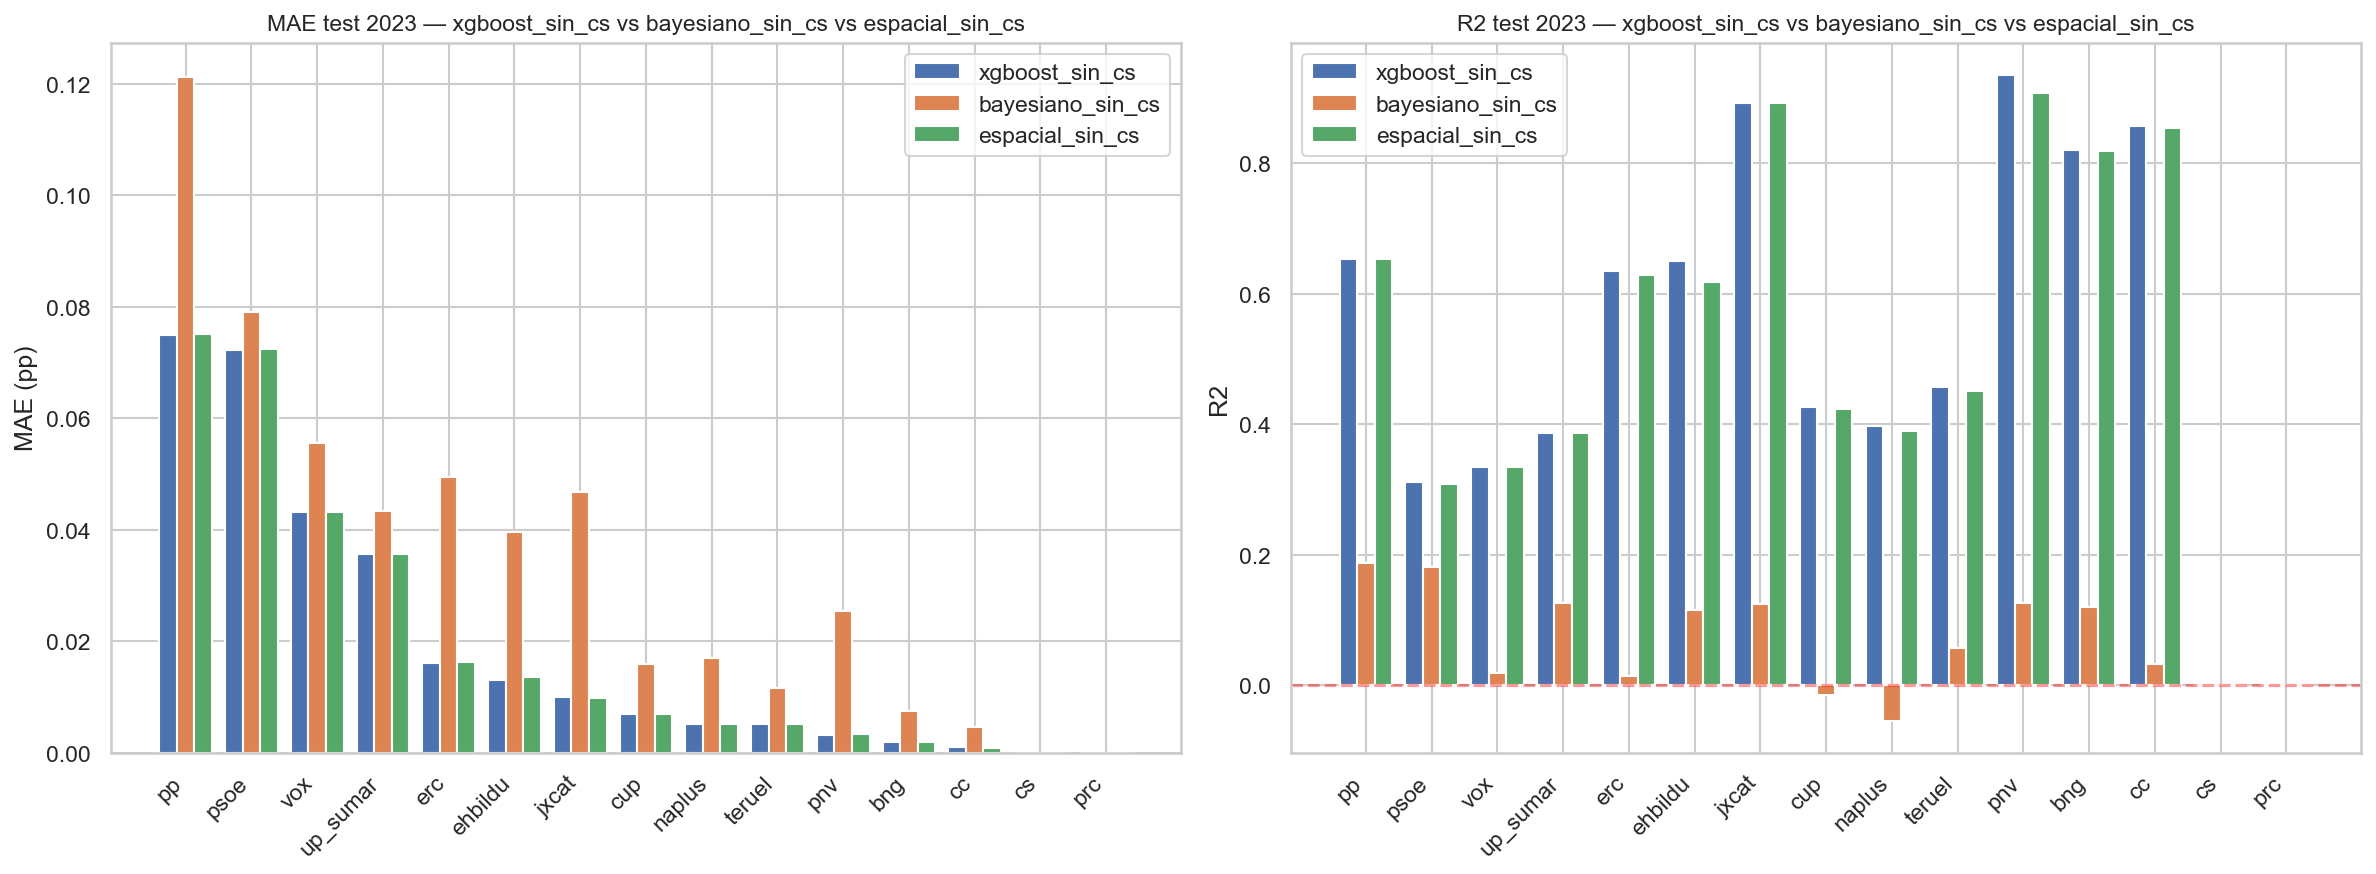
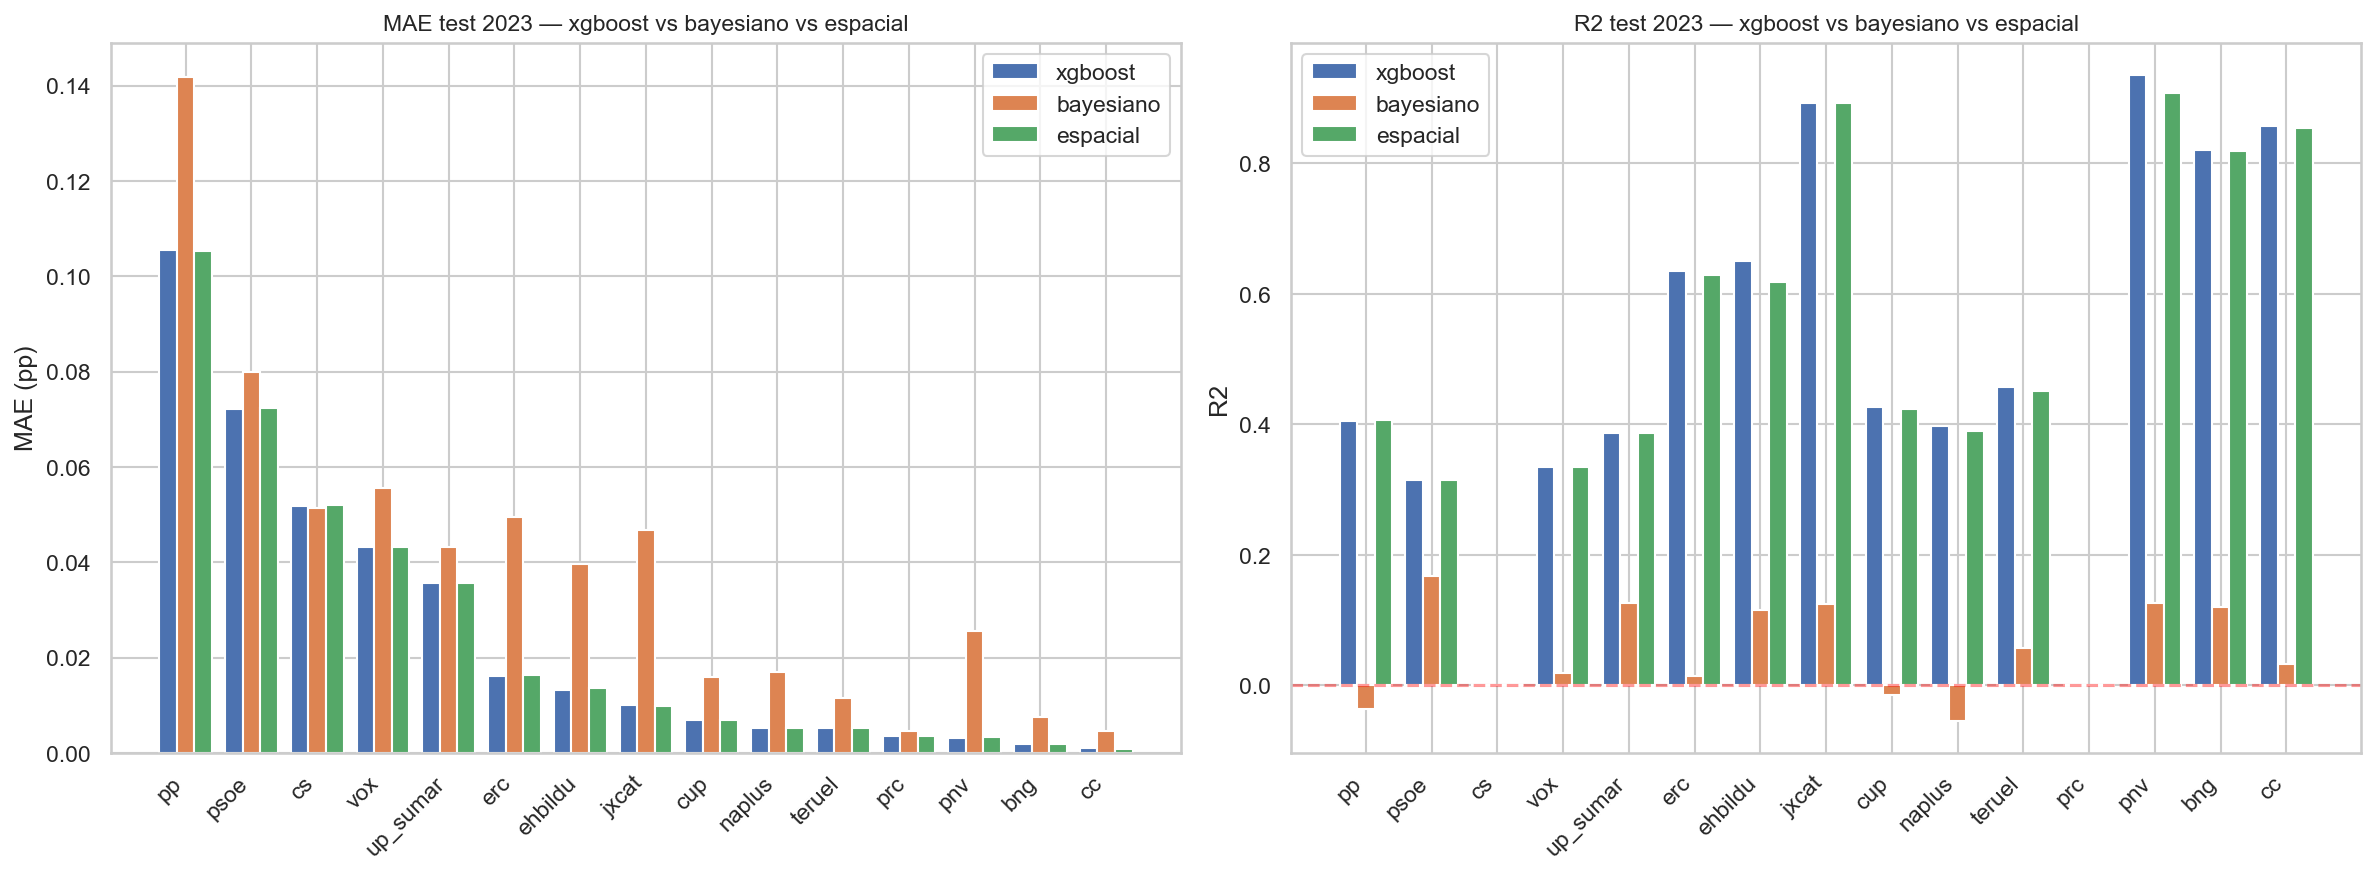
solución de errores en código en carpeta análisis

diff --git a/analisis/bloques.py b/analisis/bloques.py
@@ -46,27 +46,23 @@ FEAT_TOT_CAND = [
 ]
 
 
-def _get_X_panel(df: pd.DataFrame, anio: int) -> pd.DataFrame:
+def _get_X_panel(df, anio):
     cols = [f'{f}_{anio}' for f in FEAT_PANEL_BASE if f'{f}_{anio}' in df.columns]
     rename = {f'{f}_{anio}': f for f in FEAT_PANEL_BASE if f'{f}_{anio}' in cols}
     return df[FEAT_FIXED + cols].copy().rename(columns=rename)
 
 
-def _get_y_bloque_panel(df: pd.DataFrame, anio: int, partidos: list) -> pd.Series:
+def _get_y_bloque_panel(df, anio, partidos):
     cols = [f'pct_{p}_{anio}' for p in partidos if f'pct_{p}_{anio}' in df.columns]
     return df[cols].fillna(0).sum(axis=1)
 
 
-def _suma(df: pd.DataFrame, cols: list) -> pd.Series:
+def _suma(df, cols):
     return df[[c for c in cols if c in df.columns]].fillna(0).sum(axis=1)
 
 
-def walk_forward_bloques(panel: pd.DataFrame) -> pd.DataFrame:
-    """
-    Walk-forward sobre el panel de 1.207 municipios (sin imputación KNN).
-    Tres rondas: test 2016, 2019 y 2023.
-    Devuelve DataFrame con R²/MAE por bloque y año de test.
-    """
+def walk_forward_bloques(panel):
+    """Walk-forward sobre el panel de 1207 municipios: test 2016, 2019 y 2023."""
     res_panel = {b: {} for b in BLOQUES}
 
     for bloque in BLOQUES:
@@ -100,7 +96,7 @@ def walk_forward_bloques(panel: pd.DataFrame) -> pd.DataFrame:
     print(f'\n{"Bloque":<18}', end='')
     for r in RONDAS_WF:
         print(f'  R2_{r["test"]}  MAE_{r["test"]}', end='')
-    print('\n' + '-' * 72)
+    print()
     for b in BLOQUES:
         print(f'{b:<18}', end='')
         for r in RONDAS_WF:
@@ -121,15 +117,8 @@ def walk_forward_bloques(panel: pd.DataFrame) -> pd.DataFrame:
     return pd.DataFrame(rows)
 
 
-def muestra_total_bloques(
-    df_2019: pd.DataFrame,
-    df_2023: pd.DataFrame,
-) -> tuple:
-    """
-    Entrena un modelo XGBoost por bloque sobre df_2019 y evalúa en df_2023.
-    Añade columnas pct_izquierda/pct_derecha/pct_nacionalistas a ambos DataFrames.
-    Devuelve (res_total, models_bloq, feat_tot).
-    """
+def muestra_total_bloques(df_2019, df_2023):
+    """Entrena XGBoost por bloque en 2019 y evalúa en 2023; devuelve (res_total, models_bloq, feat_tot)."""
     for df_ in [df_2019, df_2023]:
         df_['pct_izquierda']     = _suma(df_, IZQ)
         df_['pct_derecha']       = _suma(df_, DER)
@@ -169,18 +158,8 @@ def muestra_total_bloques(
     return res_total, models_bloq, feat_tot
 
 
-def hallazgo_central(
-    df_2019: pd.DataFrame,
-    df_2023: pd.DataFrame,
-    res_total: dict,
-    feat_tot: list,
-    guardar: bool = True,
-) -> tuple:
-    """
-    Compara R² de partidos individuales vs bloques (test 2023, muestra total).
-    Genera gráfico de barras comparativo.
-    Devuelve (df_comparativa, r2_part) donde r2_part es {partido: r2_total}.
-    """
+def hallazgo_central(df_2019, df_2023, res_total, feat_tot, guardar=True):
+    """Compara R² de partidos individuales vs bloques y genera gráfico."""
     PARTIDOS_CMP = ['pp', 'vox', 'cs', 'psoe', 'up_sumar']
     r2_part = {}
     for p in PARTIDOS_CMP:
@@ -207,9 +186,7 @@ def hallazgo_central(
     ]
 
     print('HALLAZGO CENTRAL: partido individual vs bloque total (test 2023, muestra total)')
-    print('=' * 65)
     print(f'  {"Target":<22}  {"R2":>8}  Tipo')
-    print(f'  {"-"*22}  {"-"*8}  {"-"*18}')
     for nombre, r2, tipo in comparativa:
         marca = '***' if 'BLOQUE' in tipo else '   '
         print(f'{marca}  {nombre:<22}  {r2:>8.3f}  {tipo}')

diff --git a/analisis/descomposicion_r2.py b/analisis/descomposicion_r2.py
@@ -17,25 +17,8 @@ NAC = ['pct_pnv', 'pct_jxcat', 'pct_cc', 'pct_prc', 'pct_teruel',
 BLOQUES_COLS = {'derecha': DER, 'izquierda': IZQ, 'nacionalistas': NAC}
 
 
-def calcular_descomposicion(
-    df_2019: pd.DataFrame,
-    df_2023: pd.DataFrame,
-    res_total: dict,
-    feat_tot: list,
-    r2_part: dict,
-) -> tuple:
-    """
-    Calcula R²_eco (sin provincia_enc) y R²_total (con provincia_enc) para
-    los 5 partidos estatales y los 3 bloques ideológicos.
-
-    Parámetros
-    ----------
-    res_total : dict devuelto por muestra_total_bloques — R² total por bloque
-    feat_tot  : lista de features con provincia_enc (devuelta por muestra_total_bloques)
-    r2_part   : dict devuelto por hallazgo_central — R² total por partido
-
-    Devuelve (r2_eco_part, r2_eco_bloque).
-    """
+def calcular_descomposicion(df_2019, df_2023, res_total, feat_tot, r2_part):
+    """R² económico puro vs económico+provincial para partidos y bloques."""
     feat_eco = [c for c in feat_tot if c != 'provincia_enc']
 
     r2_eco_part = {}
@@ -52,7 +35,6 @@ def calcular_descomposicion(
 
     print('PARTIDOS — R² descomposición (train 2019 → test 2023, n≈7.880)')
     print(f'{"Partido":<14} {"R²_eco":>8} {"R²_total":>10} {"Δterritorial":>14} {"Residual":>10}')
-    print('-' * 60)
     for p in ['pp', 'vox', 'cs', 'psoe', 'up_sumar']:
         r_eco = r2_eco_part.get(p, float('nan'))
         r_tot = r2_part.get(p, float('nan'))
@@ -75,7 +57,6 @@ def calcular_descomposicion(
     print()
     print('BLOQUES — R² descomposición (train 2019 → test 2023, n≈7.880)')
     print(f'{"Bloque":<16} {"R²_eco":>8} {"R²_total":>10} {"Δterritorial":>14} {"Residual":>10}')
-    print('-' * 60)
     for bloque in ['derecha', 'izquierda', 'nacionalistas']:
         r_eco = r2_eco_bloque.get(bloque, float('nan'))
         r_tot = res_total.get(bloque, {}).get('r2', float('nan'))
@@ -97,17 +78,8 @@ def _componentes(r_eco: float, r_tot: float) -> tuple:
     return eco, terr, resid
 
 
-def visualizar_descomposicion(
-    r2_eco_part: dict,
-    r2_part: dict,
-    r2_eco_bloque: dict,
-    res_total: dict,
-    guardar: bool = True,
-) -> None:
-    """
-    Gráfico de barras apiladas: componente económico, territorial y no explicado
-    para partidos individuales y bloques ideológicos.
-    """
+def visualizar_descomposicion(r2_eco_part, r2_part, r2_eco_bloque, res_total, guardar=True):
+    """Barras apiladas: componente económico, territorial y no explicado por partido y bloque."""
     etiquetas_part = ['PP', 'VOX', 'CS', 'PSOE', 'UP/Sumar']
     keys_part      = ['pp', 'vox', 'cs', 'psoe', 'up_sumar']
     etiquetas_blq  = ['Derecha', 'Izquierda', 'Nacionalistas']

diff --git a/analisis/validacion_perfiles.py b/analisis/validacion_perfiles.py
@@ -13,12 +13,8 @@ FEAT_ECO_BASE = [
 ]
 
 
-def correlacion_geografica(panel: pd.DataFrame, guardar: bool = True) -> pd.DataFrame:
-    """
-    Heatmap de correlación entre % de voto por partido en 2019.
-    Muestra si los partidos van a los mismos municipios o no.
-    Devuelve la matriz de correlación.
-    """
+def correlacion_geografica(panel, guardar=True):
+    """Heatmap de correlación entre % de voto por partido en 2019."""
     voto_map = {
         'PP': 'pct_pp_2019', 'VOX': 'pct_vox_2019', 'CS': 'pct_cs_2019',
         'PSOE': 'pct_psoe_2019', 'UP/Sumar': 'pct_up_sumar_2019',
@@ -48,12 +44,8 @@ def correlacion_geografica(panel: pd.DataFrame, guardar: bool = True) -> pd.Data
     return corr_geo
 
 
-def correlacion_transferencias(panel: pd.DataFrame, guardar: bool = True) -> pd.DataFrame:
-    """
-    Correlación entre cambios de voto 2019→2023 por municipio.
-    Confirma la transferencia Cs→PP y el movimiento PSOE↔UP/Sumar.
-    Devuelve la matriz de correlaciones de los deltas.
-    """
+def correlacion_transferencias(panel, guardar=True):
+    """Correlación entre cambios de voto 2019→2023; confirma transferencia Cs→PP."""
     delta_data = {}
     for party, label in [('pp', 'PP'), ('cs', 'CS'), ('vox', 'VOX'),
                          ('psoe', 'PSOE'), ('up_sumar', 'UP/Sumar')]:
@@ -112,13 +104,8 @@ def correlacion_transferencias(panel: pd.DataFrame, guardar: bool = True) -> pd.
     return corr_delta
 
 
-def perfil_socioeconomico(panel: pd.DataFrame, anio: int = 2019,
-                          guardar: bool = True) -> pd.DataFrame:
-    """
-    Heatmap de correlación entre variables socioeconómicas y % de voto por partido.
-    Muestra el perfil económico de cada partido.
-    Devuelve la matriz de correlaciones (partidos × variables eco).
-    """
+def perfil_socioeconomico(panel, anio=2019, guardar=True):
+    """Heatmap de correlación entre variables socioeconómicas y % de voto por partido."""
     feat_eco_cols = [f'{f}_{anio}' for f in FEAT_ECO_BASE if f'{f}_{anio}' in panel.columns]
     feat_eco_labels = [f.replace(f'_{anio}', '').replace('_', ' ') for f in feat_eco_cols]
 
